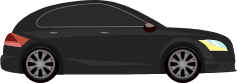
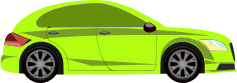
new design updates draft3

diff --git a/src/components/Confirmation.js b/src/components/Confirmation.js
@@ -1,12 +1,16 @@
 import React from 'react';
 import { Link } from 'react-router-dom';
-import backgroundImage from '../assets/car-bg-new1.png';
+import backgroundImage from '../assets/car-icon.png';
 
 const Confirmation = () => {
   return (
     <div className="confirmation-wrapper">
       <h1 className="MainLogo text-center">Turbo<span>Taxi</span></h1>
-      <img src={backgroundImage} className="w-full" alt="image" />
+      <div className="car-animation-wrapper relative w-full h-[100px] flex items-center my-6">
+        <div className="car-animation">
+          <img src={backgroundImage} className="w-[150px]" alt="image" />
+        </div>
+      </div>
       <h2 className="text-lg text-white mb-10">Your booking has been confirmed!</h2>
       <Link to="/" className="primary-btn">Home</Link>
     </div>

diff --git a/src/App.css b/src/App.css
@@ -359,3 +359,18 @@ body {
       background-position: 0 0;
   }
 }
+
+.car-animation {
+  position: absolute;
+  left: 50%; /* Start position off the screen */
+  animation: moveCar 3s ease-out forwards; /* One-time animation with ease-out */
+}
+
+@keyframes moveCar {
+  0% {
+    transform: translateX(-300%); /* Start at the left */
+  }
+  100% {
+    transform: translateX(-50%); /* Stop in the center, adjusting for car width */
+  }
+}
